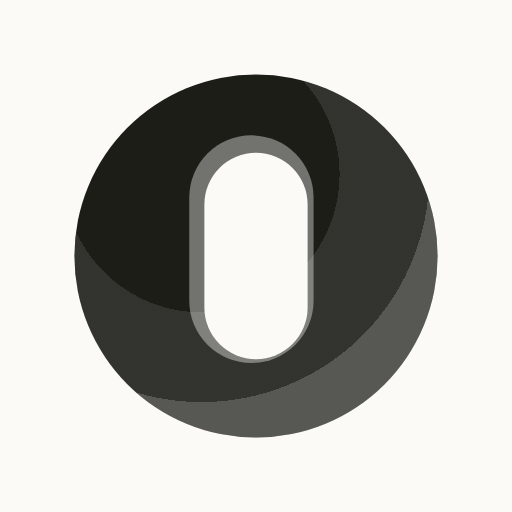
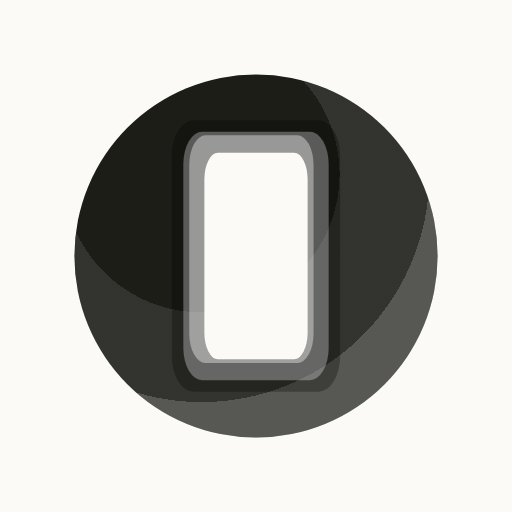
The mark's eye is a machined slot in a bezel, not a shape on a ball
Both changes say the hole was CUT rather than adding anything inside it, which
is the trap: the inside of an eye has structure too, so detail there only ever
makes a more detailed eye. Concentric rings inside the aperture read as a lens
at 112px and as an iris at 40.

SQUARED. The aperture was a full stadium — an upright oval, which is the shape
of an eye. A quarter-radius is a slot with its corners taken off, which is what
a machined opening looks like.

BEZEL. Two rings on the body around the hole, a shadow outside and a lip
inside, so there is a rim of material between the body and the opening. It is
the only cue that lives on the BODY rather than in the aperture, and the only
one that survives the mark turning: a ring foreshortens as a rigid thing while
an oval just goes narrow, which is what a squint looks like.

The bezel is drawn OUTSIDE the lid clip, because it is machined into the body
and the shutters sit inside the opening it surrounds. That falls out better
than expected — a fully shut mark now still shows where its eye is instead of
going back to a featureless ball.

One slot function, four insets: the bezel's two rings, the lit rim and the
aperture. Every ring is the same shape as the hole rather than a shape that
has to be kept in step with it.

Icon regenerated. groundcheck clean on bone, unchanged on dark.

Claude-Session: https://claude.ai/code/session_01SFZMYfUDUFoQTayH9wHqur

Changed region(s): [[0.3438, 0.25, 0.6875, 0.7812]]

diff --git a/index.html b/index.html
@@ -26,8 +26,8 @@
 <!-- The mark itself: a full-bleed lime field with the two eyes on it. Full bleed
      because iOS rounds the corners of a home-screen icon for you, and rounding them
      here as well would inset the plate inside its own rounding. -->
[4 lines of base64/hex data omitted]
 <!-- THE FONT DOES NOT HOLD THE PAGE UP ANY MORE.
      It was pulled by @import from inside the stylesheet, which is the slowest way there is
      to load one: discovered only after the CSS has parsed, render-blocking once it is, and
@@ -5919,6 +5919,20 @@ const MC_RADIUS = 0.56;
    Half as wide as it is tall, which is the width at which it stops being a slot and starts
    reading as an aperture — the thing the mark is: a lens in a solid, not a face on a ball. */
 const MC_EYE_W = 0.2843, MC_EYE_H = 0.5684;
+/* MACHINED, NOT GROWN. Two changes that between them stop the mark reading as an eye, and
+   both work by saying the hole was CUT rather than by adding anything inside it — which is
+   the trap, because the inside of an eye has structure too, so detail there only ever makes
+   a more detailed eye.
+
+   MC_EYE_R is the aperture's corner radius as a fraction of its half-size. It was a full
+   stadium; a quarter is a slot with the corners taken off, which is what a machined opening
+   looks like. The BEZEL is the other half: two rings on the body around the hole, a shadow
+   outside and a lip inside, so there is a rim of material between the body and the opening.
+   It is the only cue here that lives on the body rather than in the aperture — and it is the
+   one that survives the mark turning, because a ring foreshortens as a rigid thing while an
+   oval just goes narrow, which is what a squint looks like. */
+const MC_EYE_R = 0.26;
+const MC_BEZEL_OUT = 3.4 / 19, MC_BEZEL_IN = 2.2 / 19;
 /* INSET pulls the eye's CENTRE in from the surface, because the bar has width and height and
    the point it sits on has neither. It is not a picked number. Turned to ry the centre rides
    out to INSET*sin(ry) while the bar's own half-width foreshortens to W*cos(ry), so across
@@ -6161,39 +6175,53 @@ function mcPaint(m){
     /* The caps stay round in SCREEN units, so the stadium keeps its ends whatever the matrix
        does to it — and a blink, which only squashes the height, closes to a lozenge rather
        than to a rectangle with two half-discs stuck on. */
-    const ry = Math.min(1, ew / Math.max(0.001, eh));
     const at = (e, f)=> `matrix(${[ex[0]*ew, ex[1]*ew, ey[0]*eh, ey[1]*eh, e, f]
                                   .map(v=> v.toFixed(4)).join(' ')})`;
+    /* One slot, drawn at four insets — the bezel's two rings, the lit rim, and the aperture
+       itself. mg is in user pixels and a negative one grows it, so every ring is the same
+       shape as the hole rather than a shape that has to be kept in step with it. */
+    const slot = (mg, fill)=>{
+      const w = (ew - mg)/ew, h = (eh - mg)/eh;
+      if(w <= 0 || h <= 0) return '';
+      return `<rect x="${(-w).toFixed(4)}" y="${(-h).toFixed(4)}" width="${(2*w).toFixed(4)}"`
+           + ` height="${(2*h).toFixed(4)}" rx="${(MC_EYE_R*w).toFixed(4)}"`
+           + ` ry="${(MC_EYE_R*Math.min(w,h)).toFixed(4)}" style="fill:${fill}"/>`;
+    };
     let eye = '';
     /* The rim is the light, so it goes where the light goes: on the lit wordmark and nowhere
        else. Not on the outline chip, which has no body to bore into, and not on the flat one,
        where an edge catching a light that is not being drawn is a ring, not a recess. */
     if(m.tone){
-      const lift = rad * MC_RIM_LIFT, off = rad * MC_RIM_OFF;
-      const w = (ew + lift)/ew, hh = (eh + lift)/eh, r = Math.min((ew + lift)/eh, hh);
-      eye += `<g transform="${at(px + MC_LIGHT[0]*off, py + MC_LIGHT[1]*off)}"`
-           + ` style="fill:rgba(255,255,255,${MC_RIM_A})">`
-           + `<rect x="${-w.toFixed(4)}" y="${-hh.toFixed(4)}" width="${(2*w).toFixed(4)}"`
-           + ` height="${(2*hh).toFixed(4)}" rx="${w.toFixed(4)}" ry="${r.toFixed(4)}"/></g>`;
+      const off = rad * MC_RIM_OFF;
+      eye += `<g transform="${at(px + MC_LIGHT[0]*off, py + MC_LIGHT[1]*off)}">`
+           + slot(-rad * MC_RIM_LIFT, `rgba(255,255,255,${MC_RIM_A})`) + `</g>`;
     }
-    eye += `<g transform="${at(px, py)}" style="fill:${m.ink}">`
-         + `<rect x="-1" y="-1" width="2" height="2" rx="1" ry="${ry.toFixed(4)}"/></g>`;
+    eye += `<g transform="${at(px, py)}">` + slot(0, m.ink) + `</g>`;
     /* A BLINK IS THE LIDS, NOT A SQUASH.
        It rides on top of whatever the lids are already doing rather than replacing it: both
        edges travel toward the middle by the same fraction, so a blink taken mid-frown closes
        the frown rather than snapping it level first. */
+    /* THE BEZEL IS NOT BEHIND THE LIDS.
+       It is machined into the body; the shutters sit inside the opening it surrounds. So it
+       is drawn outside the lid clip — which also means a fully shut mark still shows where
+       its eye is, instead of going back to being a featureless ball. */
+    let inner = '';
+    if(m.tone) inner += `<g transform="${at(px, py)}">`
+                      + slot(-rad * MC_BEZEL_OUT, 'rgba(0,0,0,0.28)')
+                      + slot(-rad * MC_BEZEL_IN, `rgba(${m.tone},0.30)`) + `</g>`;
     const shut = 1 - Math.max(0, Math.min(1, mcState.blink));
     const poly = mcLidPoly(mcState.lidT * (1 - shut), mcState.lidTA,
                            mcState.lidB * (1 - shut), mcState.lidBA);
     if(poly === true){
-      out += `<g clip-path="url(#${cid})">${eye}</g>`;
+      inner += eye;
     } else if(poly){
       const pts = poly.map(([x, y])=> `${x.toFixed(3)},${y.toFixed(3)}`).join(' ');
       /* The transform goes on the POLYGON, not on a group around it — a clipPath ignores a
          <g> child, and the failure is silent: an empty clip and a sphere with no eye at all. */
-      out += `<clipPath id="${cid}L"><polygon transform="${at(px, py)}" points="${pts}"/></clipPath>`
-           + `<g clip-path="url(#${cid})"><g clip-path="url(#${cid}L)">${eye}</g></g>`;
+      out += `<clipPath id="${cid}L"><polygon transform="${at(px, py)}" points="${pts}"/></clipPath>`;
+      inner += `<g clip-path="url(#${cid}L)">${eye}</g>`;
     }
+    if(inner) out += `<g clip-path="url(#${cid})">${inner}</g>`;
   }
   svg.innerHTML = out;
 }
@@ -9283,7 +9311,7 @@ recoveryFieldIds.forEach(id=>{ document.getElementById(id).addEventListener('inp
    aggressively, and GitHub Pages serves index.html with its own cache headers on top.
    Neither is under this app's control, and a plain reload will often re-serve the cached
    document rather than fetching a new one. */
-const APP_VERSION = '2026.08.31.391';
+const APP_VERSION = '2026.08.31.392';
 /* What moved, in one line, for the builds worth naming. The banner has always been able to
    say a new version is available and never what is in it, which asks for a reload on faith.
    Only the current build needs an entry — anything older has already been read or missed. */
@@ -9440,6 +9468,7 @@ const APP_NOTES = {
   '2026.08.31.389': 'The mark beside the score is the size of the one in the wordmark.',
   '2026.08.31.390': 'The mark beside the score sits on the number\u2019s centre line, and over its last digit.',
   '2026.08.31.391': 'The mark beside the score is lit like the one in the wordmark \u2014 one mark, two homes.',
+  '2026.08.31.392': 'The mark\u2019s eye is a machined slot in a bezel now, not a shape on a ball.',
 };
 
 /* Registration is optional in the sense that it degrades quietly — but it was optional in
